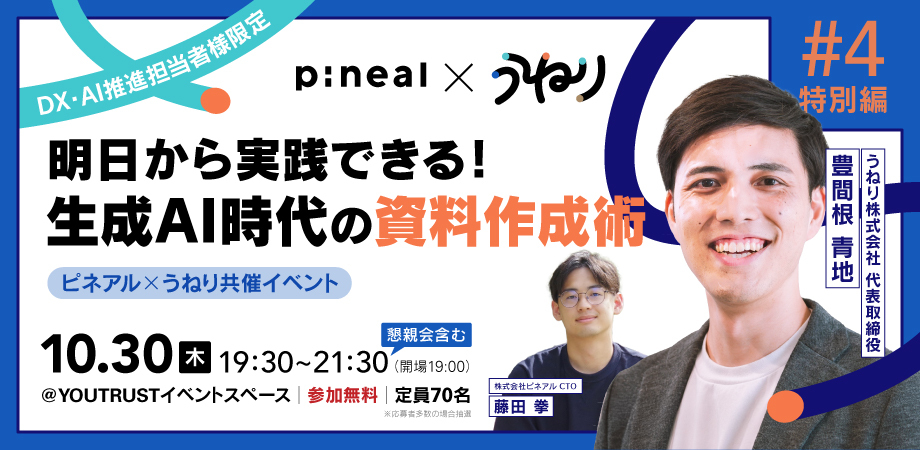
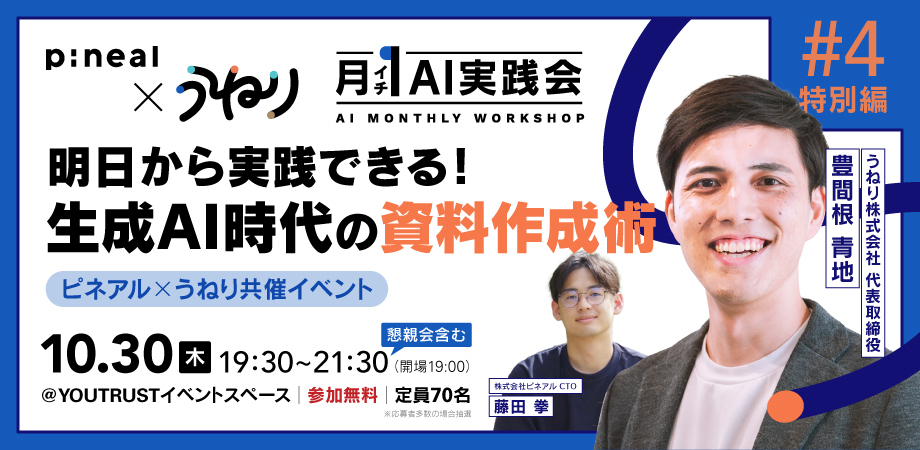
修正: バナー画像を更新、引用符を変更
- バナー画像を新しいバージョンに差し替え
- パネルディスカッションの引用符を『』に統一

🤖 Generated with [Claude Code](https://claude.com/claude-code)

diff --git a/index.html b/index.html
@@ -91,7 +91,7 @@
                     <div class="timeline-time">3</div>
                     <div class="timeline-content">
                         <h4>パネルディスカッション</h4>
-                        <p>「AIが生成した「80点の資料」を「120点」に引き上げる、プロの最後のひと手間とは？」など、参加者が本当に知りたいテーマについて、豊間根氏と藤田がそれぞれの専門家の視点から徹底討論。ライブでAIが生成したスライドへの公開ダメ出し企画も！</p>
+                        <p>「AIが生成した『80点の資料』を『120点』に引き上げる、プロの最後のひと手間とは？」など、参加者が本当に知りたいテーマについて、豊間根氏と藤田がそれぞれの専門家の視点から徹底討論。ライブでAIが生成したスライドへの公開ダメ出し企画も！</p>
                     </div>
                 </div>
                 <div class="timeline-item">
